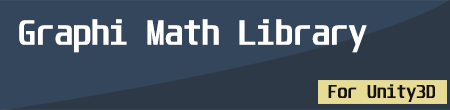
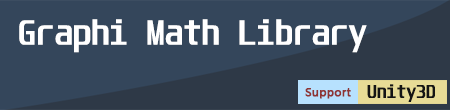
修改说明、日志等相关描述文件

Changed region(s): [[0.6533, 0.7091, 0.8089, 0.9545]]

diff --git a/README.md b/README.md
@@ -1,5 +1,4 @@
-# GMth 
+![](Documentation/images/label.png)
 
-> Unity3D 数学包
  
-> 包含向量、矩阵、四元数、平面、视椎体等相关的 3D 计算。
+> 包含向量、矩阵、四元数、平面、视椎体等相关的 3D 计算。 同时，为脱离Unity工程的工作空间（服务器等），提供与Unity内置算法相同的操作接口，保证脚本在交互时的一致性。 当然，也可独立 Unity 之外，与其没有任何交互行为而进行使用及相关工作的处理。

diff --git a/CHANGELOG.md b/CHANGELOG.md
@@ -1,9 +1,14 @@
 # 更新日志
 
-### [1.0.1] - 2024.9.3
+### [1.0.2] - 2025.01.26
+> 1. 增加 Matrix4x4 工具包，提供矩阵常用的操作
+> 2. 增加 Uint4 数据结构体，用于四元数，数学等相关模块的计算
+> 3. 增加 Quaternion 四元数及其工具包
+
+### [1.0.1] - 2024.09.03
 > 1. 修改 License 文件说明
 
-### [1.0.0] - 2024.7.25
+### [1.0.0] - 2024.07.25
 > 
 1. 提交 com.cngraphi.gmth 工程结构
 2. 添加日志、说明、帮助文档等相关文件

diff --git a/Documentation/gmth.md b/Documentation/gmth.md
@@ -1,7 +1,5 @@
 ![](images/label.png)
 
-Unity3D 数学包
-
 
 ## 目录结构 ##
 > Documentation 文档
